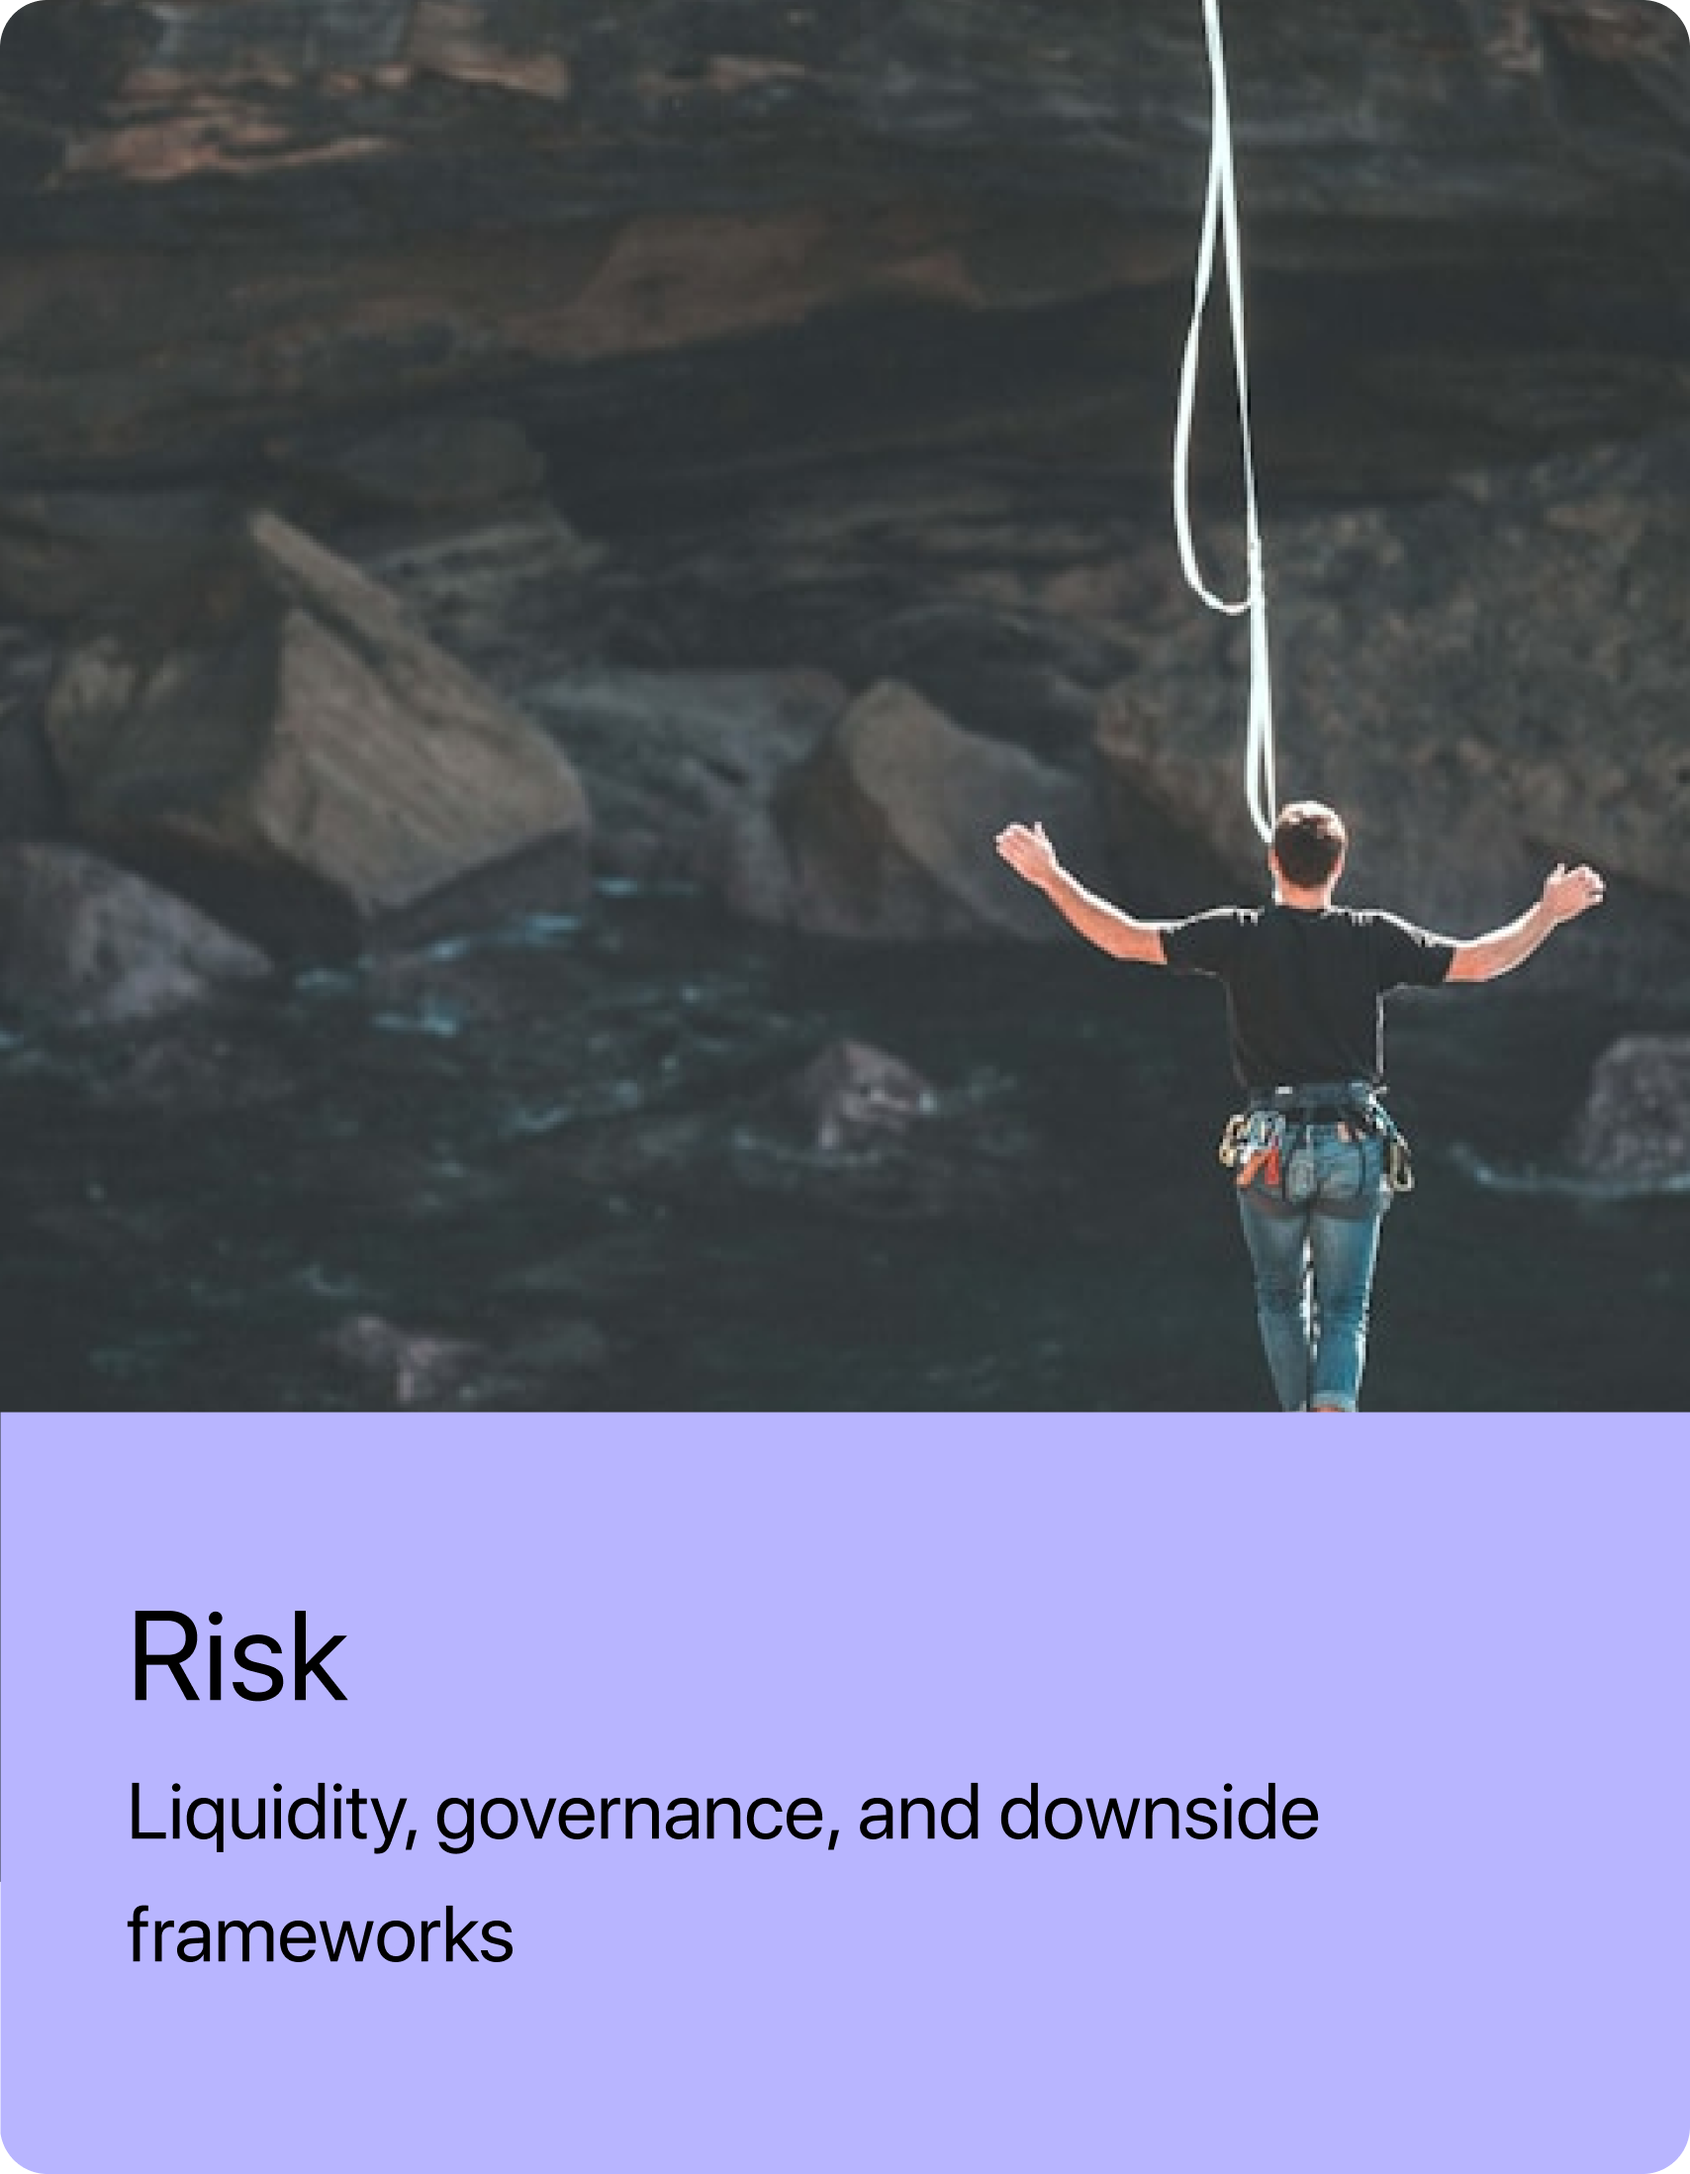
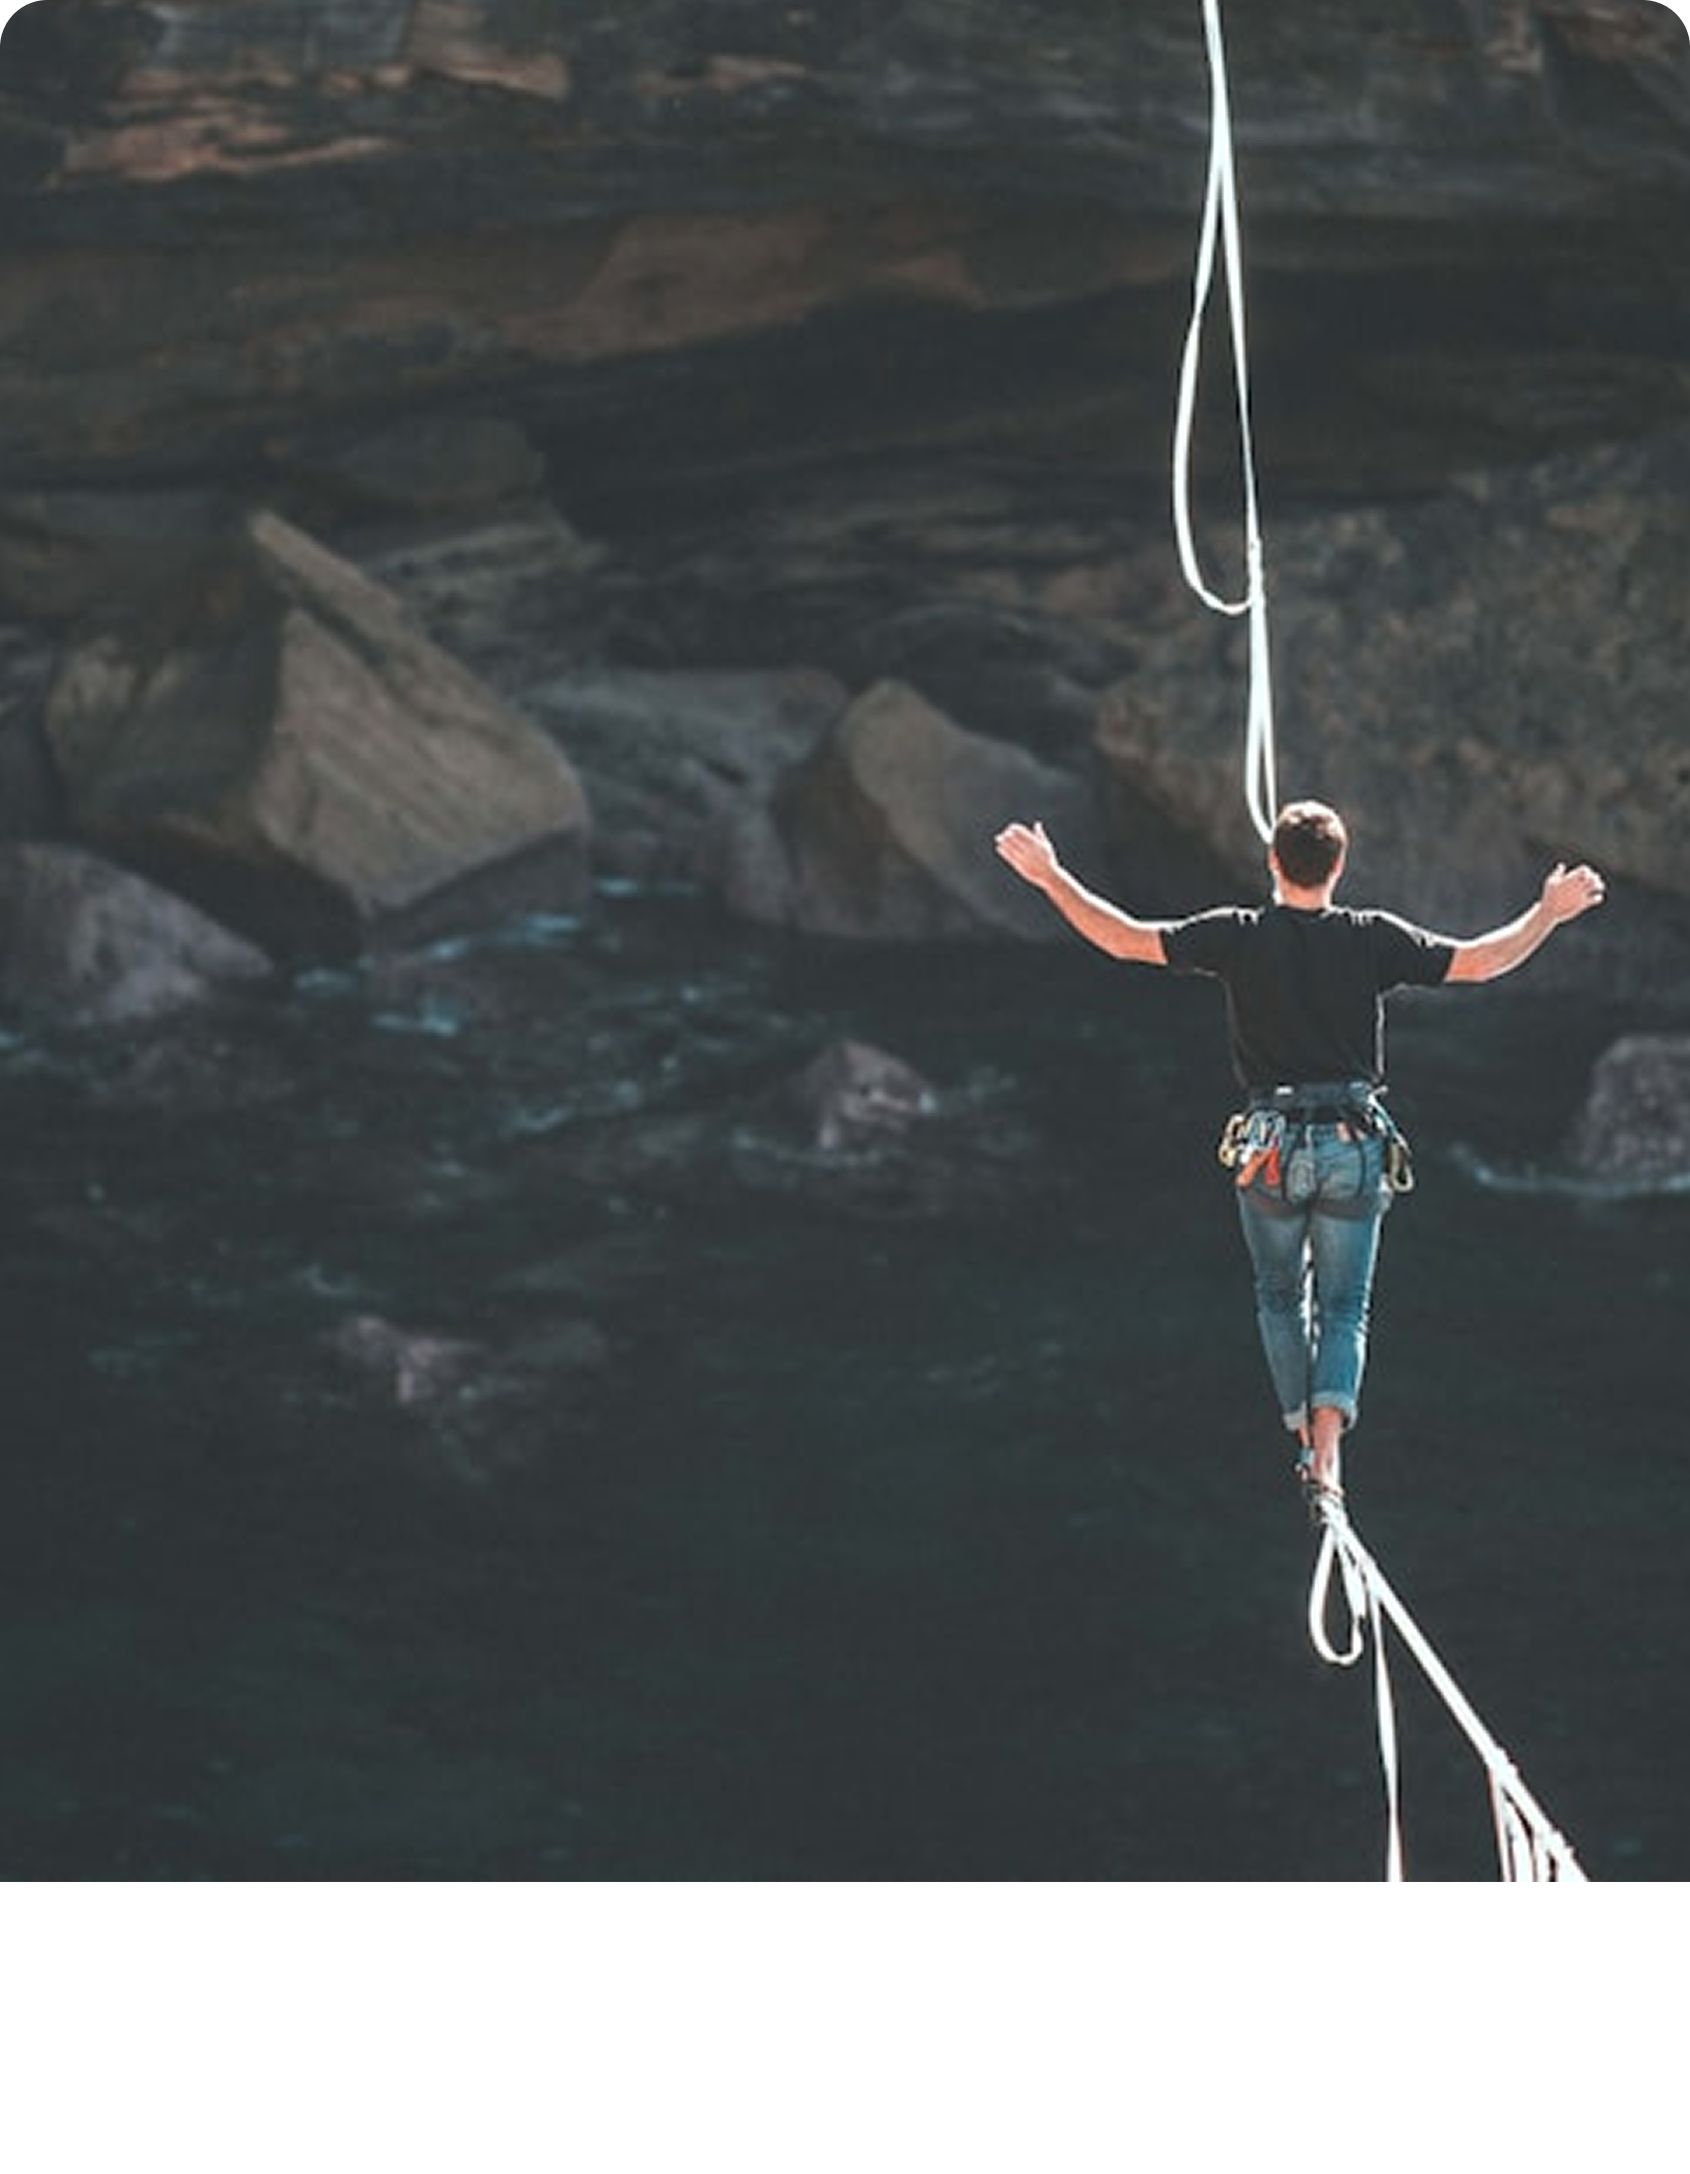
upd: route and images

diff --git a/components/Reusable/MobileNavbar.tsx b/components/Reusable/MobileNavbar.tsx
@@ -53,12 +53,18 @@ const MobileNavbarDemo = () => {
     window.location.href = subItem.link;
   };
 
+  const handleLoginRoute = () => {
+    window.open("https://faconnect.kotak.com", "_blank");
+  };
+
+
   return (
     <div className="relative z-[999]">
       {/* Fixed Header - No initial animation, immediate positioning */}
       <div
-        className={`fixed top-0 left-0 right-0 z-50 lg:hidden block  transition-opacity duration-300 ${isLoaded ? "opacity-100" : "opacity-0"
-          }`}
+        className={`fixed top-0 left-0 right-0 z-50 lg:hidden block  transition-opacity duration-300 ${
+          isLoaded ? "opacity-100" : "opacity-0"
+        }`}
       >
         <div className="flex items-center justify-between px-6 py-4">
           {/* Logo - Static positioning */}
@@ -71,6 +77,7 @@ const MobileNavbarDemo = () => {
           {/* Login Button & Menu Toggle - Static positioning */}
           <div className="flex items-center gap-3">
             <AnimatedButton
+              onClick={handleLoginRoute}
               label="Log In"
               variant="purple"
               className="px-4 py-2"
@@ -144,10 +151,11 @@ const MobileNavbarDemo = () => {
                       onClick={() => handleNavClick(item)}
                     >
                       <span
-                        className={`text-2xl leading-[34px] transition-colors duration-200 ${activeItem === item.name
+                        className={`text-2xl leading-[34px] transition-colors duration-200 ${
+                          activeItem === item.name
                             ? "text-black "
                             : "text-gray-600 "
-                          }`}
+                        }`}
                       >
                         {item.name}
                       </span>

diff --git a/components/CorporateAdvisory/AdvisoryBouquet.tsx b/components/CorporateAdvisory/AdvisoryBouquet.tsx
@@ -1,7 +1,7 @@
 import React, { useState } from "react";
 import { motion, AnimatePresence } from "framer-motion";
 import Container from "../Reusable/Container";
-import { AdvisoryBouquetImg } from "@/assets/CorporateAdvisory";
+import { AdvisoryBouquetImg, AdvisoryBouquetImgThree, AdvisoryBouquetImgTwo } from "@/assets/CorporateAdvisory";
 import Image from "next/image";
 import FlexibleHeading from "../ui/FlexibleHeading";
 
@@ -23,7 +23,7 @@ const AdvisoryBouquet = () => {
       number: "2",
       description:
         "Our M&A advisory services help businesses navigate complex transactions, from strategic acquisitions to comprehensive merger processes. We provide end-to-end support including valuation, due diligence, negotiation, and deal structuring to maximize value for all stakeholders.",
-      image: AdvisoryBouquetImg,
+      image: AdvisoryBouquetImgTwo,
     },
     {
       id: 2,
@@ -31,7 +31,7 @@ const AdvisoryBouquet = () => {
       number: "3",
       description:
         "We provide comprehensive valuation services for various corporate purposes including financial reporting, tax compliance, litigation support, and strategic planning. Our experienced team delivers accurate and defensible valuations across industries and asset classes.",
-      image: AdvisoryBouquetImg,
+      image: AdvisoryBouquetImgThree,
     },
   ];
 

diff --git a/assets/CorporateAdvisory/index.ts b/assets/CorporateAdvisory/index.ts
@@ -4,7 +4,11 @@ import WeOfferImg3 from "../../assets/CorporateAdvisory/WeOfferImg3.png"
 import RecentBlogImg1 from "../../assets/CorporateAdvisory/RecentBlogImg1.png"
 import RecentBlogImg2 from "../../assets/CorporateAdvisory/RecentBlogImg2.png"
 import WhyNRCImg from "../../assets/CorporateAdvisory/WhyNRCImg.png";
+
+
 import AdvisoryBouquetImg from "../../assets/CorporateAdvisory/AdvisoryBouquetImg.png"
+import AdvisoryBouquetImgTwo from "../../assets/CorporateAdvisory/AdvisoryBouquetImg2.png"
+import AdvisoryBouquetImgThree from "../../assets/CorporateAdvisory/AdvisoryBouquetImg3.png"
 
 // TracKRecord
 import TrackRecordLogo1 from "../../assets/CorporateAdvisory/TrackRecord/Logo1.png";
@@ -73,7 +77,10 @@ export {
     RecentBlogImg1,
     RecentBlogImg2,
     WhyNRCImg,
+
     AdvisoryBouquetImg,
+    AdvisoryBouquetImgTwo,
+    AdvisoryBouquetImgThree,
 
     TrackRecordLogo1,
     TrackRecordLogo2,

diff --git a/components/Reusable/NavBar.tsx b/components/Reusable/NavBar.tsx
@@ -198,6 +198,10 @@ const Navbar: React.FC<NavbarProps> = ({ visibility = true, isHomePage = false }
   const lastScrollYRef = useRef(0);
   const ticking = useRef(false);
 
+const handleLoginRoute = () => {
+  window.open("https://faconnect.kotak.com", "_blank");
+};
+
   useEffect(() => {
     setMounted(true);
   }, []);
@@ -397,6 +401,7 @@ const Navbar: React.FC<NavbarProps> = ({ visibility = true, isHomePage = false }
             }}
           >
             <AnimatedButton
+              onClick={handleLoginRoute}
               label="Log In"
               variant="purple"
               className="[@media(min-width:1000px)]:px-4 [@media(min-width:1000px)]:py-1.5 [@media(min-width:1200px)]:px-5 [@media(min-width:1200px)]:py-2"

diff --git a/components/PMS/Partnerships.tsx b/components/PMS/Partnerships.tsx
@@ -5,6 +5,8 @@ import Container from "../Reusable/Container";
 import {
   PartnershipImg1,
   PartnershipImg2,
+  PartnershipImg3,
+  PartnershipImg4,
   // PartnershipImg3,
 } from "@/assets/PMS";
 import Image from "next/image";
@@ -60,13 +62,13 @@ const Partnerships = () => {
       description: "PE-style diligence before every investment",
     },
     {
-      image: PartnershipImg1,
+      image: PartnershipImg3,
       alt: "Risk",
       title: "Risk",
       description: "Liquidity, governance, and downside frameworks",
     },
     {
-      image: PartnershipImg2,
+      image: PartnershipImg4,
       alt: "Alignment",
       title: "Alignment",
       description: "Skin in the game, alongside clients",

diff --git a/assets/PMS/index.ts b/assets/PMS/index.ts
@@ -20,6 +20,7 @@ import StrategiesThree from "@/assets/PMS/StrategiesThree.png"
 import PartnershipImg1 from "@/assets/PMS/Partnership/PartnershipImg1.png"
 import PartnershipImg2 from "@/assets/PMS/Partnership/PartnershipImg2.png"
 import PartnershipImg3 from "@/assets/PMS/Partnership/PartnershipImg3.png"
+import PartnershipImg4 from "@/assets/PMS/Partnership/PartnershipImg4.png"
 
 
 // FamilyOffices
@@ -57,6 +58,7 @@ export {
     PartnershipImg1,
     PartnershipImg2,
     PartnershipImg3,
+    PartnershipImg4,
 
     FamilyOfficeImg1,
     FamilyOfficeImg2,

diff --git a/components/CorporateAdvisory/OurTrack.tsx b/components/CorporateAdvisory/OurTrack.tsx
@@ -83,7 +83,6 @@ const OurTrack = () => {
         TechImgFour,
         // TechImgFive,
         TechImgSix,
-
       ],
       rightLogs: [
         TechImgSeven,
@@ -138,7 +137,7 @@ const OurTrack = () => {
     {
       id: 4,
       label: "Industrial",
-      desc: "Industrial automation and IoT solutions transforming manufacturing and operations.",
+      desc: "Auto Ancillary, Engineering Goods, Industrial Automation, Industrial Ancillaries, Specialty Chemicals.",
       leftLogs: [
         IndustrialImgOne,
         IndustrialImgTwo,

diff --git a/components/AIF/AIF.tsx b/components/AIF/AIF.tsx
@@ -6,6 +6,7 @@ import TwoDistinct from "./TwoDistinct";
 import InvestmentStrategy from "./InvestmentStrategy";
 import InvestmentProcess from "./InvestmentProcess";
 import PortfolioHighlights from "./PortfolioHighlights";
+import RecentBlogs from "../CorporateAdvisory/RecentBlogs";
 
 const AIF = () => {
   return (
@@ -33,6 +34,7 @@ const AIF = () => {
       <InvestmentStrategy />
       <InvestmentProcess />
       <PortfolioHighlights />
+      <RecentBlogs/>
     </div>
   );
 };

diff --git a/components/About/About.tsx b/components/About/About.tsx
@@ -6,6 +6,7 @@ import NineRivers from './NineRivers'
 import WealthFlows from './WealthFlows'
 import OurValue from './OurValue'
 import { useRouter } from 'next/navigation'
+import RecentBlogs from '../CorporateAdvisory/RecentBlogs'
 
 const About = () => {
 
@@ -33,6 +34,7 @@ const About = () => {
         <NineRivers />
         <OurValue />
         <WealthFlows />
+        <RecentBlogs />
       </div>
     );
 }
